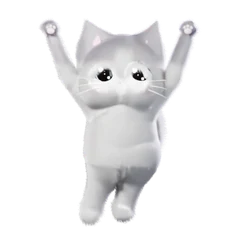
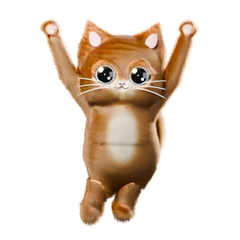
Slider kitten: orange tabby, shape-keeping rig, scared clip plays once
Ginger fur with cream chest and soft tabby stripes. Near-rigid skinning keeps
the body and face in shape while it swings (checked with shape_check.py).

Claude-Session: https://claude.ai/code/session_019fbWZE46PVqoy15rDZvK2K

Changed region(s): [[0.175, 0.0583, 0.8458, 0.9625]]

diff --git a/scripts/mascots/anim.py b/scripts/mascots/anim.py
@@ -77,7 +77,6 @@ def kitten_hang(rig, parts, t, special=False):
     arms(rig, 0, 0, 0, 0, 0, 0)
     rot(rig, 'spine', 0.05 + 0.03 * w(0.2, 2), 0, 0.04 * w(0.8))  # no sideways bend here: it would drag the paws off the ball
     rot(rig, 'hips', 0.08 + 0.05 * w(0.5, 2), 0, 0.06 * w(1.2))  # belly jiggle
-    rig.pose.bones['spine'].scale = (1, 1 + 0.035 * w(0.3, 2), 1)
     rot(rig, 'head', -0.1 + 0.07 * w(0.9, 2), 0.1 * w(-0.4), 0.14 * w(-0.6))
     for n, ph, sg in (('L', 0.0, 1), ('R', math.pi, -1)):  # bicycle kicks + dangling lag
         k = math.sin(p * 2 + ph)
@@ -96,7 +95,115 @@ def kitten_scared(rig, parts, t, special=False):
     PZ = PIVOT_Z; th = shake
     rot(rig, 'root', 0, th, 0); move(rig, 'root', -PZ * math.sin(th), 0, PZ * (1 - math.cos(th)))
     rot(rig, 'head', -0.1 + 0.35 * hit, 0, 0.08 * hit)              # duck the head
-    rig.pose.bones['spine'].scale = (1, 1 - 0.06 * hit, 1)            # cringe
     for n, sg in (('L', 1), ('R', -1)):                               # tuck the legs up
         rot(rig, f'leg.{n}', -0.2 - 0.9 * hit, 0, sg * 0.06); rot(rig, f'shin.{n}', 0.35 + 1.0 * hit, 0, 0); rot(rig, f'foot.{n}', 0.45 + 0.4 * hit, 0, 0)
     rot(rig, 'tail', 0.6 * hit, 0, -0.4 * hit)                        # tail whips up
+
+# ---------------- choreography: a sequence of different moves, ~140 bpm ----------------
+# Every move returns offsets from the neutral stance that are zero at its start and end, so moves chain and the
+# whole sequence loops seamlessly. Feet stay planted unless a move lifts them.
+NEUTRAL = dict(yaw=0, lift=0, dx=0, dip=0, lean=0, twist=0, hx=0, hy=0, hz=0, aL=0, aR=0, fL=0, fR=0, bL=0.15, bR=0.15, stepL=0, stepR=0, glow=1.6)
+S = math.sin; PI = math.pi
+def frac(x): return x - math.floor(x)
+def env(u, k=0.18): return ease(u / k) * ease((1 - u) / k)          # fade a move in and out at its edges
+
+def mv_shuffle(u):      # quick side shuffle, two steps each way, paw on the weight side waves, head bobs on every beat
+    sw = S(4 * PI * u); e = env(u, 0.08)
+    return dict(dx=0.07 * sw * e, dip=0.04 * (1 - math.cos(8 * PI * u)) / 2, lean=0.06 * sw * e, twist=0.15 * sw * e,
+                stepL=max(0, -sw) ** 2 * e, stepR=max(0, sw) ** 2 * e, aL=(0.55 * max(0, sw) ** 1.3 - 0.1 * max(0, -sw)) * e,
+                aR=(0.55 * max(0, -sw) ** 1.3 - 0.1 * max(0, sw)) * e, hx=0.08 * S(8 * PI * u), hz=-0.15 * sw * e, fL=0.2 * sw * e, fR=-0.2 * sw * e)
+
+def mv_roof(u):         # "raise the roof": both arms shoot up and pump four times, knees bounce, head nods
+    e = env(u, 0.15); pump = S(8 * PI * u)
+    return dict(aL=e * (0.4 + 0.1 * pump), aR=e * (0.4 + 0.1 * pump), bL=e * (0.42 + 0.12 * pump), bR=e * (0.42 + 0.12 * pump),  # V arms, forearms up and out
+                dip=e * 0.06 * (1 - math.cos(8 * PI * u)) / 2, dx=0.05 * S(4 * PI * u) * e, hx=e * 0.16 * pump, hz=0.12 * S(4 * PI * u) * e)
+
+def mv_spin_point(u):   # fast 360 spin with arms out, then a disco point: one arm up high, the other down, hip pop
+    out = {}
+    if u < 0.5:
+        v = u / 0.5; out['yaw'] = 2 * PI * ease(v); a = S(PI * v); out.update(aL=0.1 * a, aR=0.1 * a, dip=0.05 * a, lift=0.05 * a)
+    else:
+        v = S(PI * (u - 0.5) / 0.5)
+        out.update(aL=0.75 * v, aR=-0.45 * v, bL=-0.15 * v, fL=-0.1 * v, dx=0.06 * v, lean=0.12 * v, hz=0.15 * v, hy=-0.12 * v, twist=-0.2 * v, stepR=0.5 * v)
+    return out
+
+def mv_hops(u):         # two quick hops: crouch, spring up with legs tucked and arms flapping, land
+    h = frac(2 * u); air = S(PI * ease((h - 0.2) / 0.6)) if 0.2 < h < 0.8 else 0.0
+    crouch = (1 - ease(h / 0.2)) * 0.6 if h < 0.2 else ((ease((h - 0.8) / 0.2)) * 0.6 if h > 0.8 else 0.0)
+    e = env(u, 0.1)
+    return dict(lift=0.24 * air, dip=0.08 * crouch * e, stepL=0.7 * air, stepR=0.7 * air, aL=0.6 * air - 0.15 * crouch * e,
+                aR=0.6 * air - 0.15 * crouch * e, hx=-0.12 * air + 0.1 * crouch * e, twist=0.2 * S(2 * PI * u) * e)
+
+def mv_wiggle(u):       # butt wiggle: hips swing fast left-right while the head stays steady, arms bent like a boxer
+    e = env(u, 0.15); w = S(8 * PI * u)
+    return dict(dx=0.05 * w * e, twist=0.35 * w * e, lean=0.1 * w * e, dip=0.05 * e, hy=-0.2 * w * e,
+                aL=-0.25 * e, aR=-0.25 * e, fL=-0.6 * e, fR=-0.6 * e, bL=1.1 * e, bR=1.1 * e)
+
+def choreo(t, moves):
+    """moves: [(fn, beats)]; returns the pose dict at loop time t in [0,1)."""
+    total = sum(b for _, b in moves); x = t * total; P = dict(NEUTRAL)
+    for fn, b in moves:
+        if x < b or fn is moves[-1][0]:
+            for k, v in fn(min(1, x / b)).items(): P[k] = P.get(k, 0) + v
+            return P
+        x -= b
+    return P
+
+def apply_pose(rig, parts, P, base_yaw=-0.3, glow_mat=None):
+    move(rig, 'root', 0, 0, P['lift']); rot(rig, 'root', 0, 0, base_yaw + P['yaw'])
+    move(rig, 'hips', P['dx'], 0, -P['dip']); rot(rig, 'hips', 0, 0.6 * P['lean'], 0)
+    rot(rig, 'spine', 0.04, -P['lean'], P['twist'])
+    rot(rig, 'head', P['hx'], P['hy'], 0.1 + P['hz'])                           # 0.1 = a curious tilt
+    arms(rig, P['aL'], P['aR'], P['fL'], P['fR'], P['bL'], P['bR'])
+    L = 0.56; sway = math.asin(max(-0.9, min(0.9, P['dx'] / L))); knee = math.acos(max(0.6, (L - P['dip']) / L))
+    leg_bend(rig, 'L', knee + 0.55 * P['stepL'], sway); leg_bend(rig, 'R', knee + 0.55 * P['stepR'], sway)
+    m = parts.get('orb_m')
+    if m: m.node_tree.nodes['Principled BSDF'].inputs['Emission Strength'].default_value = P['glow'] + 6 * max(P['lift'] * 4, P['aL'] * 0.6 if P['aL'] > 1 else 0)
+
+ALIEN_DANCE = [(mv_shuffle, 2), (mv_roof, 1.5), (mv_spin_point, 1.5), (mv_hops, 1.5)]
+PUG_DANCE = [(mv_roof, 1.5), (mv_wiggle, 2), (mv_hops, 1.5), (mv_spin_point, 1.5)]
+
+_alien_special, _pug_special = alien_pose, pug_pose
+def alien_pose(rig, parts, t, special=False):
+    if special: return _alien_special(rig, parts, t, True)
+    apply_pose(rig, parts, choreo(t, ALIEN_DANCE))
+
+def pug_pose(rig, parts, t, special=False):
+    if special: return _pug_special(rig, parts, t, True)
+    apply_pose(rig, parts, choreo(t, PUG_DANCE), base_yaw=-0.25)
+
+# ---------------- tap specials: spin jump, backflip, superstar pose (each starts and ends neutral) ----------------
+def sp_spin(t):
+    air = bump(t, 0.18, 0.8); cr = 0.6 * bump(t, 0, 0.22) + bump(t, 0.75, 0.97)
+    return dict(lift=0.38 * air, yaw=2 * PI * ease((t - 0.18) / 0.6), dip=0.1 * cr, aL=0.25 * air - 0.2 * cr, aR=0.25 * air - 0.2 * cr,
+                stepL=0.6 * air, stepR=0.6 * air, hx=0.12 * cr - 0.1 * air, glow=9 * air)
+
+def sp_flip(t):
+    air = bump(t, 0.16, 0.82); cr = 0.7 * bump(t, 0, 0.2) + bump(t, 0.78, 0.98); tuck = bump(t, 0.25, 0.72)
+    return dict(lift=0.6 * air, flip=-2 * PI * ease((t - 0.2) / 0.56), dip=0.12 * cr, aL=0.5 * bump(t, 0.1, 0.3) - 0.35 * tuck, aR=0.5 * bump(t, 0.1, 0.3) - 0.35 * tuck,
+                fL=-0.6 * tuck, fR=-0.6 * tuck, bL=0.9 * tuck, bR=0.9 * tuck, stepL=1.0 * tuck, stepR=1.0 * tuck, hx=0.25 * tuck, glow=9 * air)
+
+def sp_pose(t):
+    v = ease(t / 0.12) * ease((1 - t) / 0.22); beat = 0.5 + 0.5 * S(2 * PI * 3 * t)  # snap in, hold with a little hip bounce, release
+    return dict(aL=0.8 * v, bL=-0.15 * v, aR=-0.55 * v, fR=-0.55 * v, bR=1.25 * v, dx=0.07 * v, lean=0.15 * v, twist=-0.3 * v,
+                hz=0.18 * v, hy=-0.12 * v, stepR=0.35 * v, yaw=0.35 * v, dip=0.03 * v * beat, glow=6 * v)
+
+SPECIALS = {'special': sp_spin, 'flip': sp_flip, 'pose': sp_pose}
+
+def apply_pose2(rig, parts, P, base_yaw):
+    """apply_pose plus an optional flip (rotation about the character's own side axis, pivoting at mid-body)."""
+    apply_pose(rig, parts, P, base_yaw)
+    a = P.get('flip', 0.0)
+    if a:
+        c = 1.0; yaw = base_yaw + P['yaw']; ty, tz = c * math.sin(a), c * (1 - math.cos(a))
+        rot(rig, 'root', a, 0, yaw); move(rig, 'root', -math.sin(yaw) * ty, math.cos(yaw) * ty, P['lift'] + tz)
+
+def alien_pose(rig, parts, t, special=False):
+    if special: P = dict(NEUTRAL); [P.__setitem__(k, P.get(k, 0) + v) for k, v in SPECIALS[special if isinstance(special, str) else 'special'](t).items()]
+    else: P = choreo(t, ALIEN_DANCE)
+    apply_pose2(rig, parts, P, -0.3)
+
+def pug_pose(rig, parts, t, special=False):
+    if special: P = dict(NEUTRAL); [P.__setitem__(k, P.get(k, 0) + v) for k, v in SPECIALS[special if isinstance(special, str) else 'special'](t).items()]
+    else: P = choreo(t, PUG_DANCE)
+    apply_pose2(rig, parts, P, -0.25)

diff --git a/scripts/mascots/shape_check.py b/scripts/mascots/shape_check.py
@@ -1,0 +1,25 @@
+"""How much does a character's body distort while dancing? Reports the 99th-percentile edge stretch vs rest and how far
+the face skin drifts relative to the rigid eyes (in body units; the head is ~1 unit wide). Usage: shape_check.py <char>"""
+import sys; char = sys.argv[1]; sys.argv = sys.argv[:1]; sys.path.insert(0, '/home/claude/bl')
+import bpy, numpy as np, anim
+from lib import *
+if char == 'pug': import pug; rig, parts = pug.build(); pose = anim.pug_pose
+else: import cat; rig, parts = cat.build(char); pose = anim.alien_pose if char == 'alien' else anim.kitten_hang
+body = [o for o in bpy.data.objects if o.type == 'MESH' and o.particle_systems and o.name.split('.')[0] in ('pug', 'cat')][0]
+eye = [o for o in bpy.data.objects if o.name.startswith('eye')][0]
+E = np.array([e.vertices[:] for e in body.data.edges])
+def state():
+    bpy.context.view_layer.update(); me = body.evaluated_get(bpy.context.evaluated_depsgraph_get()).to_mesh()
+    P = np.array([body.matrix_world @ v.co for v in me.vertices]); M = np.array(eye.matrix_world.inverted())
+    return P, M
+P0, M0 = state(); L0 = np.linalg.norm(P0[E[:, 0]] - P0[E[:, 1]], axis=1)
+loc = lambda P, M: (np.c_[P, np.ones(len(P))] @ M.T)[:, :3]
+near = np.argsort(np.linalg.norm(P0 - np.array(eye.matrix_world.translation), axis=1))[:300]; F0 = loc(P0[near], M0)
+ws, wd = [], []
+for t in np.linspace(0, 1, 9)[:-1]:
+    for sp in ([False, True] if char != 'kitten' else [False]):
+        pose(rig, parts, t, special=sp); P, M = state()
+        L = np.linalg.norm(P[E[:, 0]] - P[E[:, 1]], axis=1); ws.append(np.percentile(np.abs(L / L0 - 1), 99))
+        sc = np.linalg.norm(np.array(eye.matrix_world.to_3x3()), axis=0).mean()
+        wd.append(np.linalg.norm(loc(P[near], M) - F0, axis=1).max() * sc)
+print(f'{char}: worst edge stretch {max(ws)*100:.1f}%  worst face drift around the eye {max(wd):.3f}')

diff --git a/scripts/mascots/lib.py b/scripts/mascots/lib.py
@@ -143,14 +143,18 @@ def seg_dist(P, a, b, limb=False):
     if limb: d = np.where(t < 0.08, d + 10 * (0.08 - t), d)  # limbs only own what lies past the shoulder/hip joint
     return d
 
-def skin(obj, rig, bones, power=4.0, only=None):
+def skin(obj, rig, bones, power=4.0, only=None, band=0.16):
     """Smooth automatic weights from distance to each bone segment (robust replacement for bone-heat)."""
     P = np.array([v.co for v in obj.data.vertices]) @ np.array(obj.matrix_world.to_3x3()).T + np.array(obj.matrix_world.translation)
     names = [b[0] for b in bones if (only is None or b[0] in only)]
-    D = np.stack([seg_dist(P, b[1], b[2], b[0].startswith(('arm.', 'leg.'))) for b in bones if b[0] in names], 1) + 1e-4
-    W = D ** -power
-    W[D > np.sort(D, 1)[:, [2]] + 1e-9] = 0  # at most three nearest bones per vertex
-    W /= W.sum(1, keepdims=True)
+    # distance to each bone's *surface* (bone line minus a rough thickness): a wide head owns its cheeks, not the arms
+    thick = lambda n: {'head': 0.4, 'spine': 0.28, 'hips': 0.28}.get(n, 0.08)
+    D = np.stack([np.maximum(seg_dist(P, b[1], b[2], b[0].startswith(('arm.', 'leg.', 'fore.', 'shin.', 'foot.'))) - thick(b[0]), 0) for b in bones if b[0] in names], 1) + 1e-4
+    # near-rigid segments: each vertex follows its nearest bone; only within `band` of the boundary between the two
+    # nearest bones does it blend (a narrow seam at the joint), so heads, torsos and limbs keep their shape
+    order = np.argsort(D, 1); i1, i2 = order[:, 0], order[:, 1]; r = np.arange(len(D))
+    x = np.clip((D[r, i2] - D[r, i1]) / band, 0, 1); x = x * x * (3 - 2 * x)
+    W = np.zeros_like(D); W[r, i1] = 0.5 + 0.5 * x; W[r, i2] = 0.5 - 0.5 * x
     for j, n in enumerate(names):
         vg = obj.vertex_groups.new(name=n)
         for i in np.nonzero(W[:, j] > 0.01)[0]: vg.add([int(i)], float(W[i, j]), 'REPLACE')

diff --git a/scripts/mascots/paw_check.py b/scripts/mascots/paw_check.py
@@ -1,0 +1,12 @@
+import sys; char = sys.argv[1]; sys.argv = ['x']; sys.path.insert(0, '/home/claude/bl')
+import numpy as np, bpy, anim
+if char == 'pug': import pug; rig, parts = pug.build(); pose = anim.pug_pose; hc, hr, mv = 1.76, 0.5, anim.PUG_DANCE
+else: import cat; rig, parts = cat.build('alien'); pose = anim.alien_pose; hc, hr, mv = 1.75, 0.46, anim.ALIEN_DANCE
+total = sum(b for _, b in mv); bounds = np.cumsum([0] + [b for _, b in mv]) / total
+res = {}
+for t in np.linspace(0, 1, 133)[:-1]:
+    pose(rig, parts, t); bpy.context.view_layer.update()
+    hb = rig.pose.bones['head']; Hc = rig.matrix_world @ (hb.head + (hb.tail - hb.head).normalized() * (hc - 1.36))
+    d = min((rig.matrix_world @ rig.pose.bones[f'fore.{n}'].tail - Hc).length - hr for n in 'LR')
+    m = mv[int(np.searchsorted(bounds, t, 'right') - 1)][0].__name__; res[m] = min(res.get(m, 9), d)
+print(char, {k: round(v, 3) for k, v in res.items()})

diff --git a/scripts/mascots/render_all.py b/scripts/mascots/render_all.py
@@ -24,4 +24,4 @@ else:
 out = f'/home/claude/bl/frames/{char}_{mode}'; os.makedirs(out, exist_ok=True)
 for i in range(n):
     if only is not None and i != only: continue
-    pose(rig, parts, i / n, special=(mode == 'special')); render(f'{out}/{i:03d}.png')
+    pose(rig, parts, i / n, special=(mode if mode in ('special', 'flip', 'pose') else False)); render(f'{out}/{i:03d}.png')
